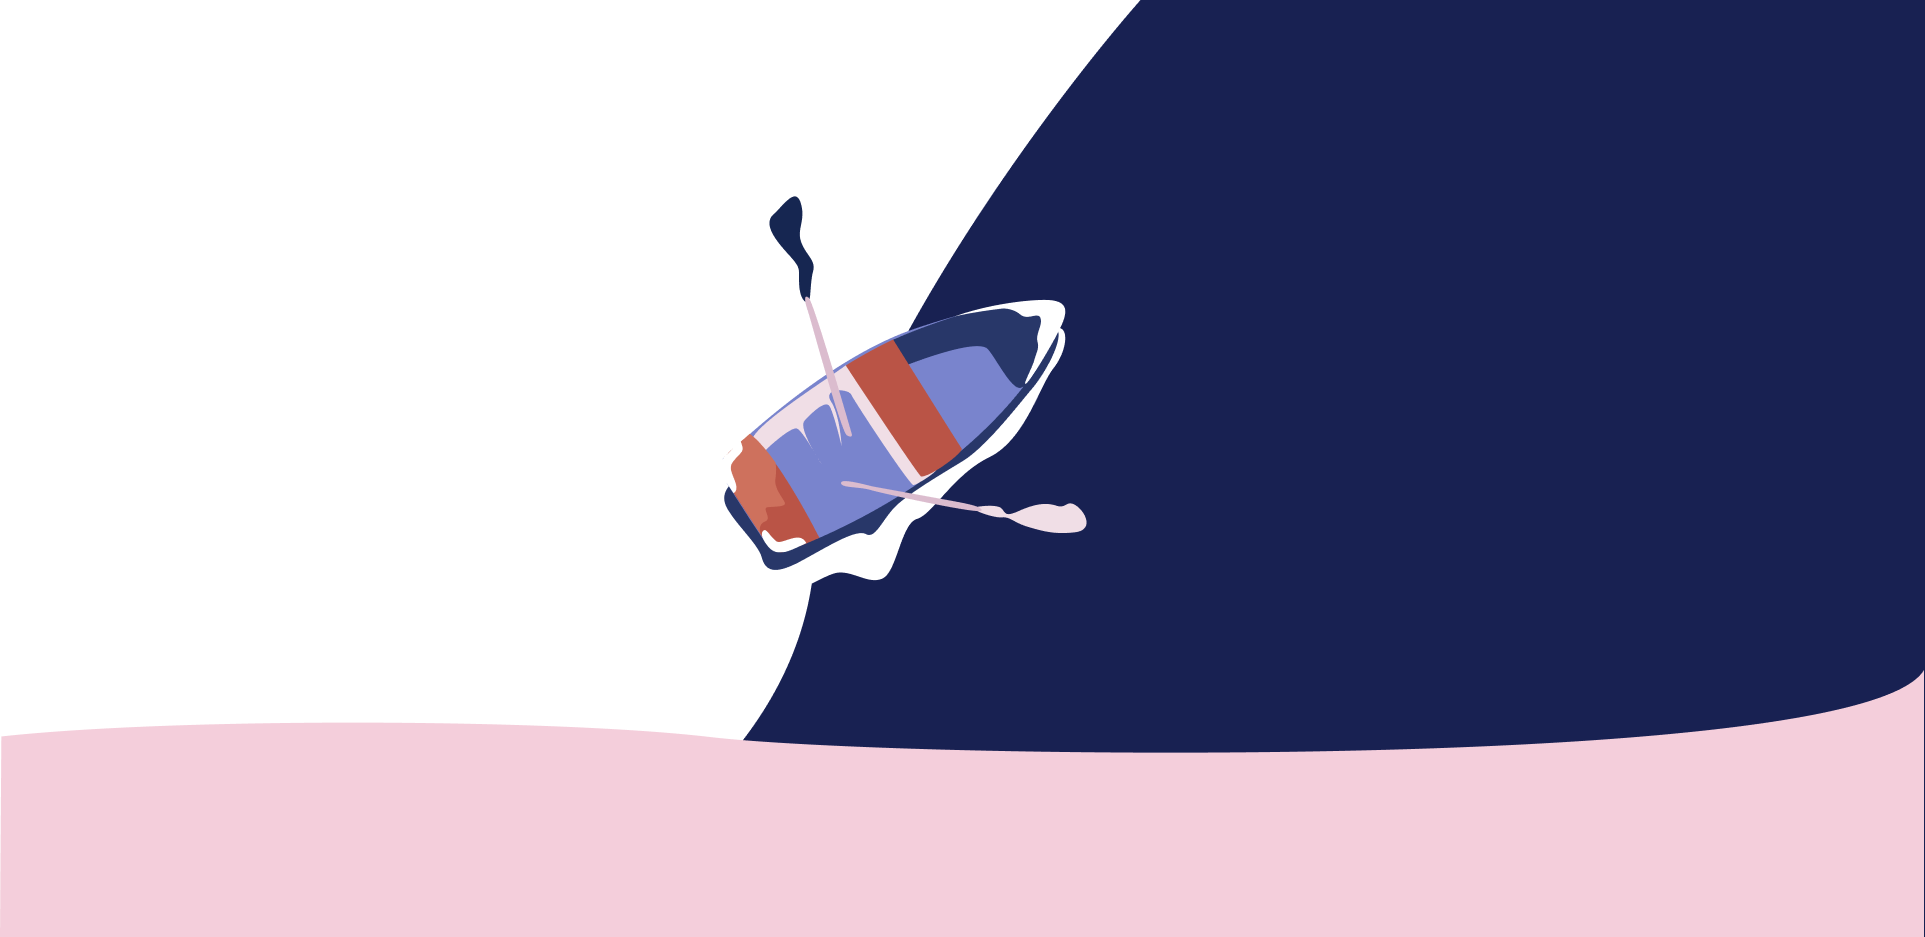
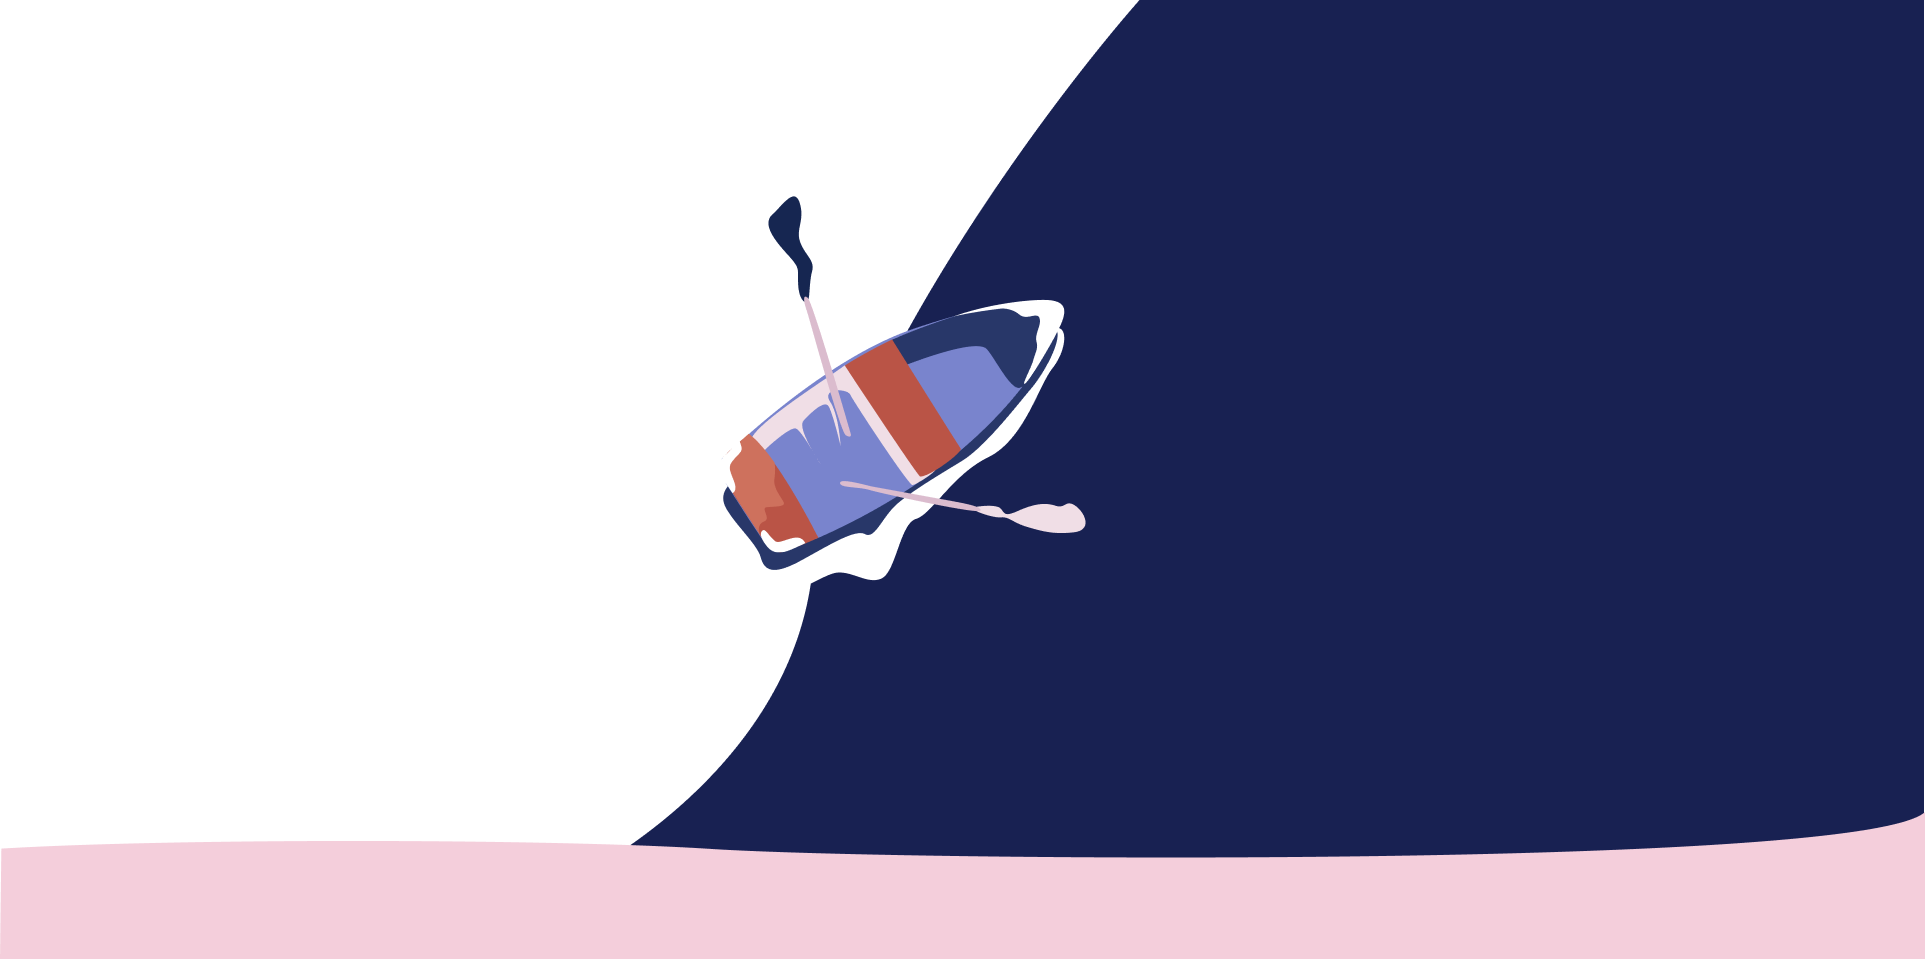
findf

Changed region(s): [[0.0, 0.0, 1.0, 1.0], [0.374, 0.3095, 0.561, 0.619], [0.4052, 0.6499, 0.4364, 0.7118]]

diff --git a/styles/master.css b/styles/master.css
@@ -7,10 +7,11 @@ body {
 
 
 .view {
-  background: #7C7BCF url("images/back.png") bottom center no-repeat;
+  background: #7C7BCF url("images/backkk.png") top center no-repeat;
 display: flex;
 justify-content: space-between;
 min-height: 80vh;
+object-fit: cover;
 align-items: center;
 }
 
@@ -57,5 +58,5 @@ li {
 }
 
 footer {
-  background: pink;
+background: url("images/ba.png") bottom no-repeat;
 }
